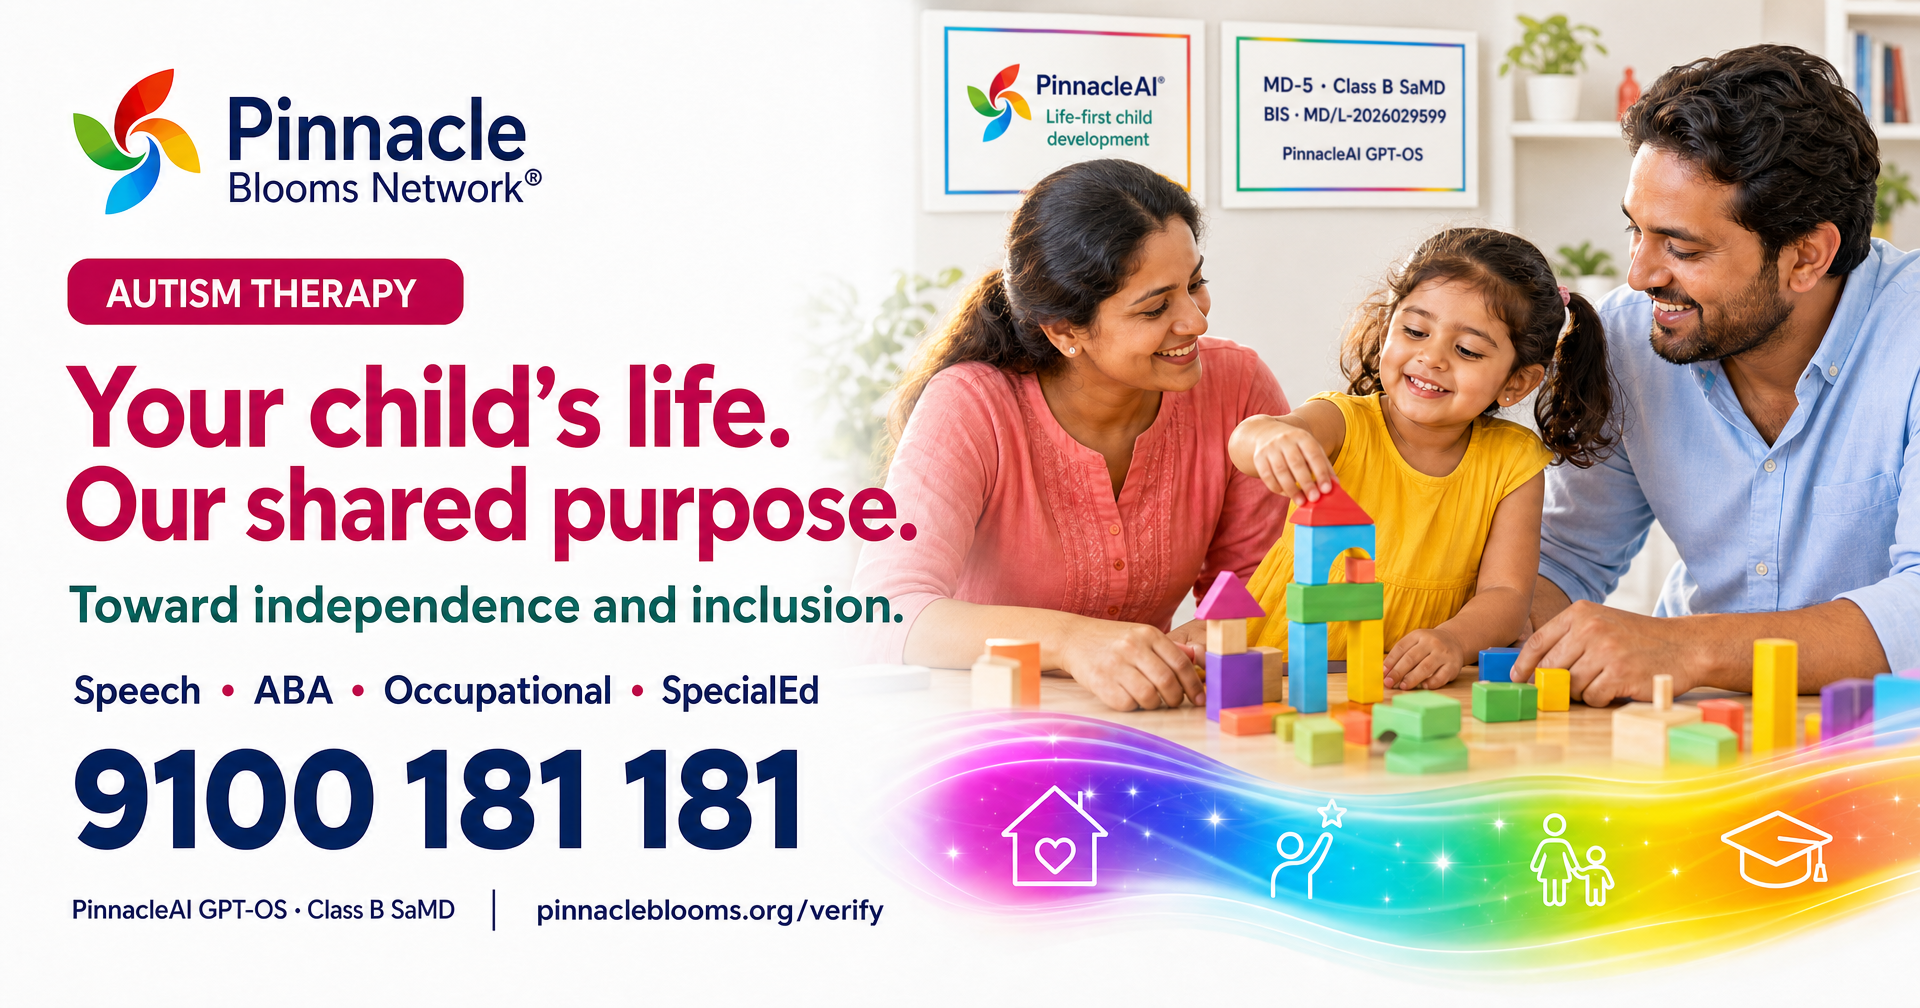
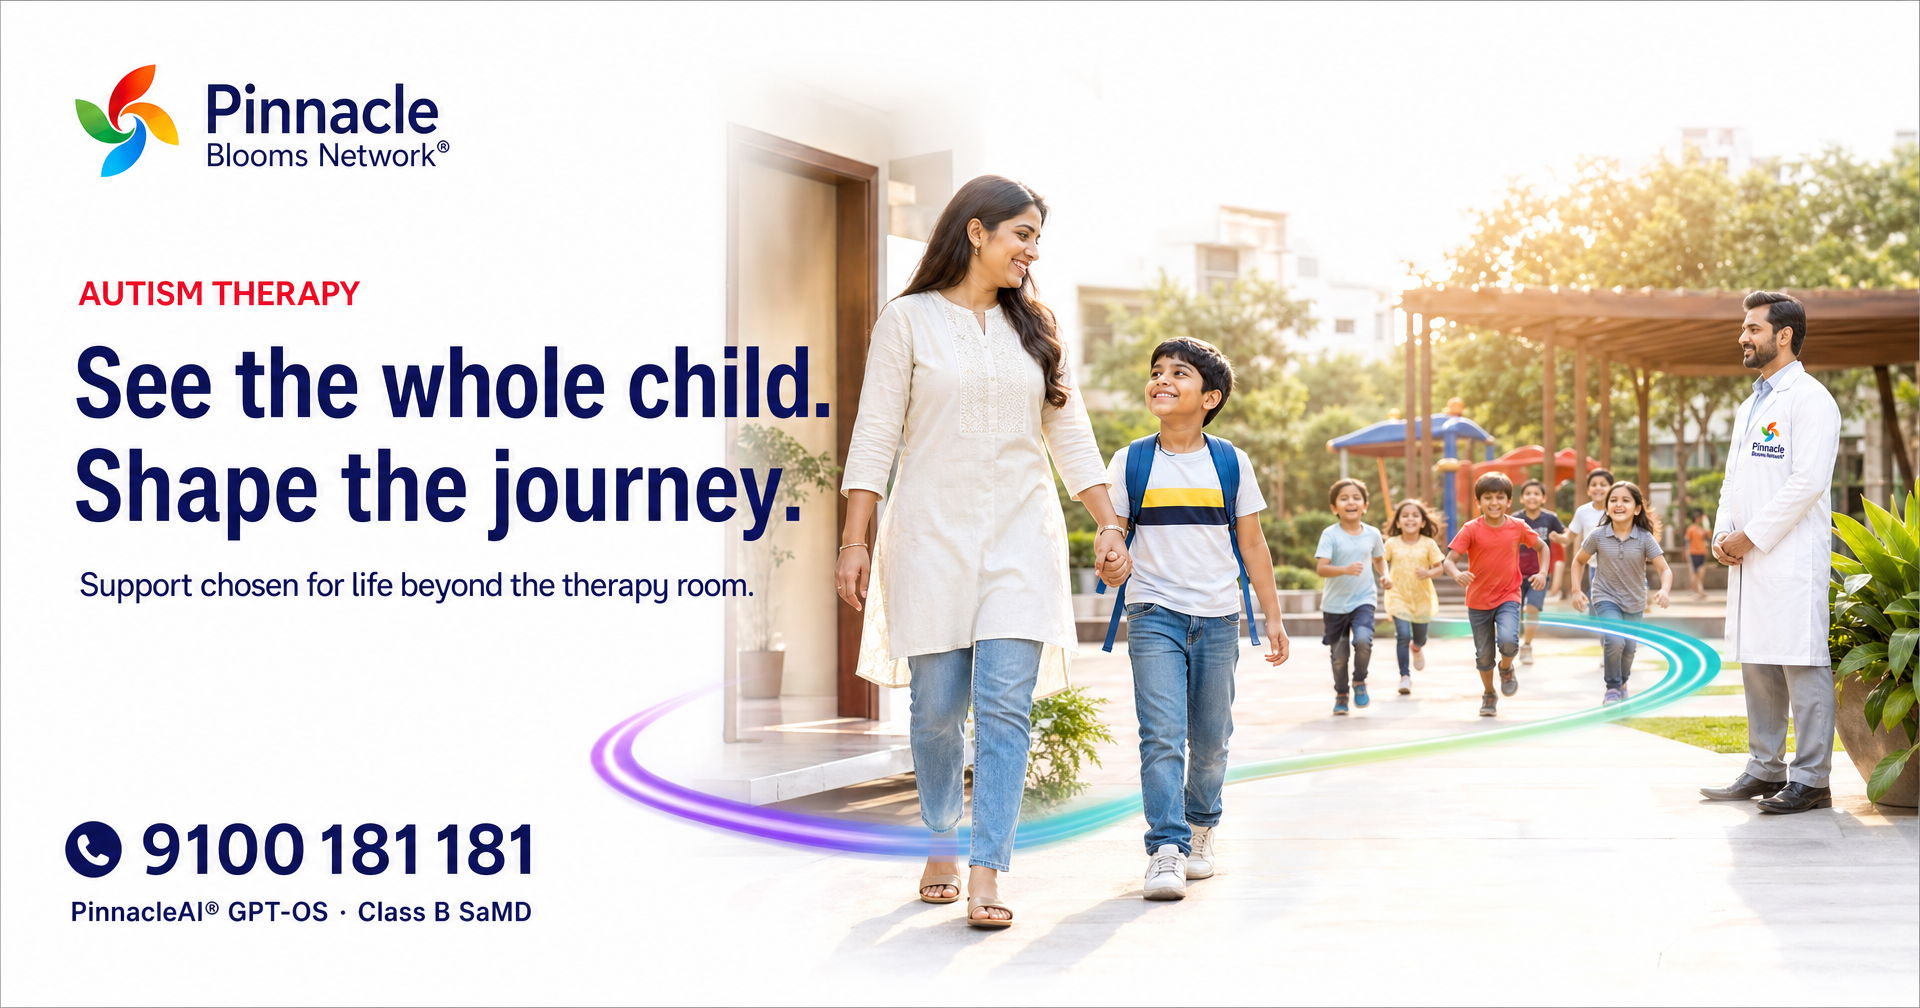
Replace five therapy and centre OG images with distinct Pinnacle posters

diff --git a/speech-site/og-poster-20260930/PROMPTS.md b/speech-site/og-poster-20260930/PROMPTS.md
@@ -1,0 +1,25 @@
+# Pinnacle OG posters — generation briefs
+
+These are five independent, finished 1200:630 poster concepts. The official Pinnacle Blooms Network lockup is a **brand reference**, never a prior poster to repair. Generate all lettering as part of the composition. Each concept must remain legible around 400 × 210 pixels. Exact spelling and the number are release gates.
+
+Shared visual rules: luminous white canvas, navy/teal/red typography, vivid purple/cyan/pink/yellow/green accents and a restrained glowing pathway. Use generous negative space and a natural Indian family scene with children approximately nine months to seven years. A Pinnacle professional, if depicted, wears a full-sleeve white coat with the supplied emblem and Pinnacle Blooms Network name, with no stethoscope or doctor label. No fabricated regulator logos, seals, certificates, reviews, ratings, patient claims, diagnosis, guarantee, or claim that a therapy is licensed. The MD-5/Class B and BIS facts describe PinnacleAI GPT-OS software only. Exact logo from supplied reference; do not redraw a different mark. Make one complete art-directed image rather than a stock image with later text blocks.
+
+## 1. Occupational Therapy
+
+Use case: ads-marketing. Asset: wide Open Graph poster, 1920 × 1008 source, safe 5% margin. Supplied image 1 is the official Pinnacle Blooms Network logo **reference**, not an edit target. Create a new single-shot editorial campaign scene in a warm home: a five-year-old Indian child closes the zipper of their schoolbag independently while their mother smiles nearby, hands off. The child's action and hands are clear and anatomically credible. A slim luminous path flows from the bag toward softly suggested school participation, not a collage. Art direction: expansive white upper-left, bold navy humanist display type with one red underlined keyword, warm coral/yellow textiles, teal bag, organic circular photo edge. Integrate the brand lockup in the upper-left and a large navy phone number in the lower-left. A tiny refined PinnacleAI evidence line sits in the lower-right, subordinated to the family. Exact text only: "OCCUPATIONAL THERAPY"; headline "Everyday skills. A life that grows."; subline "From home routines to wider participation."; phone "9100 181 181"; evidence "PinnacleAI® GPT-OS · Class B SaMD". The evidence line refers only to the software. Clear headline at social-preview size. No extra words or faux credentials.
+
+## 2. ABA Therapy
+
+Use case: ads-marketing. Asset: wide Open Graph poster, 1920 × 1008 source, safe 5% margin. Supplied image 1 is official brand-lockup reference only. Make a completely new premium Pinnacle poster centered on respectful behavioural support and communication. Show a six-year-old Indian child choosing between two play activities by pointing, with a Pinnacle therapist at the child's eye level listening and an Indian father nearby. The therapist wears a full-sleeve white branded coat, no stethoscope. The child is calm and active, never restrained, drilled, rewarded for obedience or made to look deficient. Art direction: asymmetrical cyan-to-white circular vignette on left; huge vertical navy title at upper-right; three small linked colour symbols for choice, understanding and everyday participation along a sweeping pathway. Vivid red accent behind one word. Place exact logo upper-left and enormous phone along lower-right, outside faces. Exact text only: "ABA THERAPY"; headline "Understand first. Grow together."; subline "Support for communication and daily life."; phone "9100 181 181"; evidence "PinnacleAI® GPT-OS · Class B SaMD". Evidence names only the software. All words correct and clearly legible in 400 × 210 preview. No puzzle pieces, compliance imagery, fake certificate, fabricated professional title or extra copy.
+
+## 3. Special Education
+
+Use case: ads-marketing. Asset: wide Open Graph poster, 1920 × 1008 source, safe 5% margin. Supplied image 1 is official logo reference only. Create a new campaign poster about access to learning and participation. Show a young Indian child confidently using a large-print picture-book and tactile learning materials with a smiling educator in a full-sleeve white Pinnacle coat; a mother sees the child's engagement. Suggest a bright classroom through soft architectural light without implying an actual named school or promised school admission. Art direction: editorial magazine cover with striking oversized stacked serif/sans typography in navy and teal on the left, an organic yellow/green photographic circle on the right, a short coloured pathway connecting book, child and social participation. Keep the scene warm and truthful, no certificate wall. Exact text only: "SPECIAL EDUCATION"; headline "Learning opens more of life."; subline "A way in for every next step."; phone "9100 181 181"; evidence "PinnacleAI® GPT-OS · Class B SaMD". Phone prominent at bottom. Do not claim the therapy, educator or school is licensed by the software licence. No extra words, fake review or promised outcome.
+
+## 4. Autism Therapy
+
+Use case: ads-marketing. Asset: wide Open Graph poster, 1920 × 1008 source, safe 5% margin. Supplied image 1 is official logo reference only. Make a fresh Pinnacle campaign poster showing the whole child's life as the starting direction, without a checklist of prescribed therapies. A mother and seven-year-old Indian child walk from their front door toward play with peers in a sunlit communal space; both relaxed and hopeful. Use one continuous, luminous purple/cyan/green pathway as the visual metaphor, sweeping through home and play. A small distant professional in a full-sleeve Pinnacle coat can support the scene but the family remains central. Art direction: cinematic wide photograph occupying the center, clean white perimeter, monumental navy left-aligned headline embedded in generous white sky, vibrant but restrained brand colour strokes. Official lockup at upper-left, phone large in lower-left on clean white. Exact text only: "AUTISM THERAPY"; headline "See the whole child. Shape the journey."; subline "Support chosen for life beyond the therapy room."; phone "9100 181 181"; evidence "PinnacleAI® GPT-OS · Class B SaMD". No puzzle pieces, cure, fixed therapy bundle, exclusivity claim or guaranteed independence.
+
+## 5. Find a Centre
+
+Use case: ads-marketing. Asset: wide Open Graph poster, 1920 × 1008 source, safe 5% margin. Supplied image 1 is official logo reference only. Create an inviting first-visit poster, **not** a photograph of a real or named branch. In a bright, softly abstract reception-like setting, an Indian mother, father and four-year-old child are greeted at the child's eye level by a Pinnacle professional in a full-sleeve white coat with the supplied brand mark and name. The parents are comfortable and the child is curious. No building façade, altered signage, address or invented branch name. Art direction: fresh editorial wayfinding poster, large open white area, one vivid teal directional arc that resolves into a location-pin silhouette; rich human scene on the right; oversized navy display headline with red emphasis; exact logo upper-left; strong dark-navy phone bar integrated organically along the bottom, not a pasted rectangle. Exact text only: "FIND A PINNACLE CENTRE"; headline "A place to begin together."; subline "Choose a centre. Take the first step."; phone "9100 181 181". Do not add software licence badges to this directory invitation. No extra words, ratings, reviews or claim this is a documentary centre image.

diff --git a/speech-site/og-release-20260930/README.md b/speech-site/og-release-20260930/README.md
@@ -1,40 +1,11 @@
-# Pinnacle OG image release — 30 September 2026
+# Five Pinnacle Open Graph posters — 30 September 2026
 
-Five complete branded social images replace the Occupational Therapy, ABA Therapy, Special Education, Autism Therapy and Find a Centre OG JPEGs. Speech Therapy remains the approved reference.
+The Occupational Therapy, ABA Therapy, Special Education, Autism Therapy and Find a Centre OG JPEGs now contain five separately designed campaign posters. The approved Pinnacle Blooms Network logo was the sole image reference for each new composition. Each poster was generated as a whole with typography, scene, number and brand integrated; no earlier OG image was used as an edit target and no text was patched on afterward. ABA received one targeted generated revision to replace a WhatsApp-like symbol with a plain phone icon.
 
-## Creative standard
+The exact prompts are in `../og-poster-20260930/PROMPTS.md` and the per-poster `.prompt.txt` files. The available API model was `gpt-image-2`; `gpt-image-2.5` was unavailable. `revised-originals/` holds the generated 1920 × 1008 PNGs, `images/` the 1200 × 630 JPEGs, and `thumbnails/` the reviewed 400 × 210 previews. `manifest.json` records targets and hashes. `review.html` provides a gallery.
 
-- The child and family are the central story: daily independence, communication and choice, learning, participation and a clear first visit.
-- Depicted Pinnacle professionals wear full-sleeve white coats with the approved emblem and name. Parents retain everyday clothing.
-- Designed PinnacleAI frames identify life-first child development, MD-5/Class B SaMD and BIS licence MD/L-2026029599. They are informational designs, not certificate facsimiles or independent endorsements.
-- Vivid Pinnacle colours, hopeful expressions, large headlines and **9100 181 181** remain readable in small previews.
-- These are generated campaign illustrations, not documentary patient, staff or named-centre photographs. No testimonials, ratings, clinical guarantees or qualifications are asserted.
+The child and family narratives, software-scope wording, typography, phone and official lockup were reviewed at full size and small-preview size. The generated people are campaign illustrations, not documented patients, professionals or a named centre. No invented certificates, reviews, guarantees or professional titles appear. The Class B SaMD proof line identifies PinnacleAI GPT-OS software only.
 
-## Generation and source
+`scripts/apply-og-replacements.mjs` preserves these exact JPEGs on later builds and verifies their hashes. This V121 release changed exactly five JPEGs and five ETag digests from V120; the other 1,444 assets, five ancillary Worker modules, managed page HTML, routing and service bindings were unchanged. Cloudflare Worker version `36021fa6-7a41-4726-a147-0f4a48a8e6d1`, deployment `41565e69-a53a-4ebc-ada0-16cb4b08144a`, is at 100%. Only the five image URLs were purged. `production-verification.json` records matching live bytes, dimensions and ETags, plus nine unchanged HTML pages. Rollback version: `a52bab91-9687-449f-a522-1eae02693dbd`.
 
-The built-in image service rejected the initial calls because the local gateway did not support its image route. The owner explicitly approved the API fallback with the existing locally protected key.
-
-The approved imagegen skill CLI generated the complete creatives with **gpt-image-2**, high quality, 1920 × 1008. Each received one targeted refinement for attire and background evidence frames. No logo/text collage was assembled afterward.
-
-- `prompts.json`: original and refinement prompts.
-- `revised-originals/`: final generated PNG source.
-- `images/`: delivered 1200 × 630 JPEGs.
-- `manifest.json`: exact target URLs, source paths, dimensions, sizes and SHA-256 hashes.
-- `review.html`: local gallery.
-- `production-verification.json`: production checks.
-
-JPEG export only resized and encoded the generated pixels. Approved references were the released Speech Therapy OG, `src/assets/pinnacle-blooms-network-lockup.png`, and `src/assets/pinnacle-emblem-official.png`.
-
-## Build preservation
-
-Run the existing `npm ci` and `npm run build` workflow. The new `postbuild` step runs `scripts/apply-og-replacements.mjs`, placing the five reviewed JPEGs at their existing generated paths. It verifies hashes and fails if an upstream asset path changes.
-
-This deliberately keeps the existing OG URLs and page HTML for an image-only release. It also leaves on-page WebP variants unchanged where the old source image is shared. Future intentional OG URL changes must update this manifest.
-
-## Deployment scope
-
-The final asset union contains 1,449 files. Exactly five JPEGs changed; 1,444 other files, including every page, were preserved byte-for-byte. The main Worker changed only five image digest values used for ETags. Its five handler modules and service/secret bindings were preserved. No route mutation was issued.
-
-The final release is Worker version `a52bab91-9687-449f-a522-1eae02693dbd`, deployment `06126284-a4cf-4a72-8e6c-5ad552f83e62`, at 100%. Only the five image URLs were purged. The immediate prior image-only version is `a137c1ed-3d73-4549-ba65-f393844bc834`; the original pre-image release is `9494ca5e-9a2a-4dde-b07c-126dcf1e3911`.
-
-External social platforms and previously cached browser responses may retain an older image until they fetch the URL again. No search ranking or AI citation change is inferred.
+OG URLs remain the same. External social platforms may retain cached older previews until they fetch them again. This release does not establish a search ranking, AI citation or lead increase.
